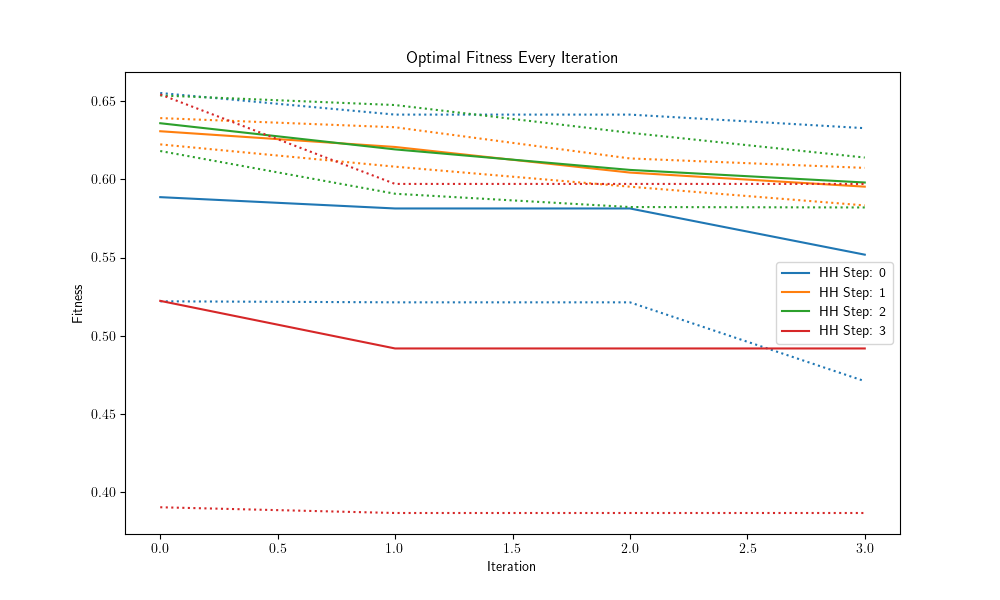
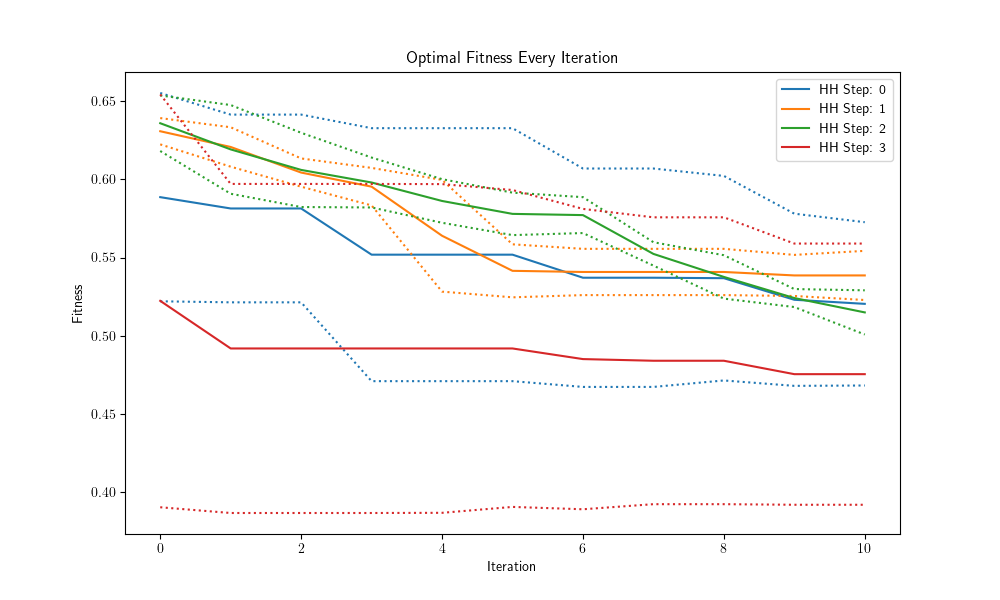
Boxplots

diff --git a/main_vis.py b/main_vis.py
@@ -75,7 +75,6 @@ def get_statistics(raw_data):
 
 def quick_and_dirty_hh_multiplot(directory_path):
     all_historical_fitness = []
-    print(directory_path)
 
     # List all files in the directory
     for filename in os.listdir(directory_path):
@@ -91,12 +90,11 @@ def quick_and_dirty_hh_multiplot(directory_path):
                     rep_values = {}
                     for replica in data['details']['historical']:
                         # print(replica['fitness'])
-                        for i in range(len(replica)):
+                        for i in range(len(replica['fitness'])):
                             if not i in rep_values:
                                 rep_values[i] = []
                             rep_values[i].append(replica['fitness'][i])
-                        i_rap = len(replica)
-                    print()
+                        i_rap = len(replica['fitness'])
                     historical_values_stats = {
                         "Med": [],
                         "Min": [],
@@ -107,7 +105,6 @@ def quick_and_dirty_hh_multiplot(directory_path):
                         historical_values_stats["Med"].append(stats["Med"])
                         historical_values_stats["Min"].append(stats["Med"]-(stats["IQR"]/2))
                         historical_values_stats["Max"].append(stats["Med"]+(stats["IQR"]/2))
-                        print(stats)
                     historical_fitness = historical_values_stats
                     all_historical_fitness.append(historical_fitness)
                 except json.JSONDecodeError as e:
@@ -139,6 +136,99 @@ def quick_and_dirty_hh_multiplot(directory_path):
 
     print(f"Plot saved as {plot_file_path}")
 
+def quick_and_dirty_hh_boxplot(directory_path):
+    all_historical_fitness = []
+
+    num_files = 0
+    for filename in os.listdir(directory_path):
+        file_path = os.path.join(directory_path, filename)
+        if filename.endswith('.json') and os.path.isfile(file_path):
+            num_files += 1
+
+    print(num_files)
+    fig, axs = plt.subplots(num_files, 1, figsize=(10, 6*num_files))
+    names = list(mcolors.TABLEAU_COLORS)
+    # List all files in the directory
+    i_step = 0
+    for filename in os.listdir(directory_path):
+        # Construct full file path
+        file_path = os.path.join(directory_path, filename)
+
+        # Check if the file is a JSON file
+        if filename.endswith('.json') and os.path.isfile(file_path):
+            with open(file_path, 'r', encoding='utf-8') as json_file:
+                try:
+                    # Load JSON content
+                    data = json.load(json_file)
+                    iteration_value_step = {}
+                    for replica in data['details']['historical']:
+                        for i in range(len(replica['fitness'])):
+                            if not i in iteration_value_step:
+                                iteration_value_step[i] = []
+                            iteration_value_step[i].append(replica['fitness'][i])
+                    iteration_value_step_list = list(iteration_value_step.values())
+                    axs[i_step].boxplot(iteration_value_step_list, showmeans=True)
+                    axs[i_step].set_title('HH Step: '+str(i_step))
+                    i_step +=1
+                except json.JSONDecodeError as e:
+                    print(f"Error reading {file_path}: {e}")
+
+# Sort colors by hue, saturation, value and name.
+
+
+    # Save the plot in the same directory
+    plot_file_path = os.path.join(directory_path, 'historical_fitness_boxplot.png')
+    fig.tight_layout()
+    fig.savefig(plot_file_path)
+
+    print(f"Plot saved as {plot_file_path}")
+
+def quick_and_dirty_hh_boxplot_all(directory_path):
+    all_historical_fitness = []
+    iteration_values = {}
+
+    # List all files in the directory
+    for filename in os.listdir(directory_path):
+        # Construct full file path
+        file_path = os.path.join(directory_path, filename)
+
+        # Check if the file is a JSON file
+        if filename.endswith('.json') and os.path.isfile(file_path):
+            with open(file_path, 'r', encoding='utf-8') as json_file:
+                try:
+                    # Load JSON content
+                    data = json.load(json_file)
+                    for replica in data['details']['historical']:
+                        for i in range(len(replica['fitness'])):
+                            if not i in iteration_values:
+                                iteration_values[i] = []
+                            iteration_values[i].append(replica['fitness'][i])
+                except json.JSONDecodeError as e:
+                    print(f"Error reading {file_path}: {e}")
+
+    iteration_values_list = list(iteration_values.values())
+
+    plt.figure(figsize=(10, 6))
+
+    i_col = 0
+    plt.boxplot(iteration_values_list, showmeans=True)
+# Sort colors by hue, saturation, value and name.
+
+    names = list(mcolors.TABLEAU_COLORS)
+
+
+    plt.xlabel('Iteration')
+    plt.ylabel('Fitness')
+    plt.title('Optimal Fitness Every Iteration')
+    plt.legend()
+
+    # Save the plot in the same directory
+    plot_file_path = os.path.join(directory_path, 'historical_fitness_boxplot_all.png')
+    plt.savefig(plot_file_path)
+    plt.close()
+
+    print(f"Plot saved as {plot_file_path}")
+
 
 def quick_and_dirty_save_hh_positions_to_xlsx(positions_data, rescale=False):
     centre_boundaries = [0.5] * 50
@@ -162,7 +252,7 @@ def quick_and_dirty_save_hh_positions_to_xlsx(positions_data, rescale=False):
 
     #     },
     #     "Crossover": {
-    #         "Worst": [0.5464518124009579, 0.27160005042194424, 0.8641534642254884, 0.28216867682564417, 0.902826755184196, 0.6886784823671213, 0.06644156851309413, 0.7410623578382756, 0.6537357725877133, -0.2981174367287347, -0.3226857195237185, -0.6493784950470745, -0.6302932963629073, -0.9775119797448784, -0.8434389694224462, 0.035166839476338474, 0.254175132268214, 0.779988582143023, 0.8983290288513619, 0.7674329282016832, -0.5982820586172723, -0.12829953433371943, 0.36312734477422826, 0.7152809638240423, 0.8775957684664346, 0.940055720980083, -0.5098715052873162, -0.7385657905624119, 0.8457861776205897, -0.21497535212715468, 0.10101825314369761, 0.7591443381551211, 0.448101056540698, 0.10242044228311253, 0.9301485960682858, 0.08114556495540604, 0.03925213967089136, -0.796680101314998, 0.24648240847341185, -0.37104721658513795, -0.43890072554851356, -0.7116411578259918, 0.5576837643274504, 0.8137345458384624, -0.7259510712506605, 0.9621821085045761, -0.13155868612824984, 0.7532267847673226, -0.20627317726817807],
+    #         "Worst": [0.5464518124009579, 0.27160005042194424, 0.8641534642254884, 0.28216867682564417, 0.902826755184196, 0.6886784823671213, 0.06644156851309413, 0.7410623578382756, 0.6537357725877133, -0.2981174367287347, -0.3226857195237185, -0.6493784950470745, -0.6302932963629073, -0.9775119797448784, -0.8434389694224462, 0.035166839476338474, 0.254175132268214, 0.779988582143023, 0.8983290288513619, 0.7674329282016832, -0.5982820586172723, -0.12829953433371943, 0.36312734477422826, 0.7152809638240423, 0.8775957684664346, 0.940055720980083, -0.5098715052873162, -0.7385657905624119, 0.8457861776205897, -0.21497535212715468, 0.10101825314369761, 0.7591443381551211, 0.4481quick_and_dirty_hh_multiplot01056540698, 0.10242044228311253, 0.9301485960682858, 0.08114556495540604, 0.03925213967089136, -0.796680101314998, 0.24648240847341185, -0.37104721658513795, -0.43890072554851356, -0.7116411578259918, 0.5576837643274504, 0.8137345458384624, -0.7259510712506605, 0.9621821085045761, -0.13155868612824984, 0.7532267847673226, -0.20627317726817807],
     #         "Best": [-0.32750114409697273, -0.3223890998684106, -0.19640077812240547, 0.15931259703667208, -0.022535543843164016, 0.36273467338637483, 0.4219244059618271, 0.10110439977688485, 0.40985971391840226, 0.22709716346565617, -0.33582035816159306, -0.11763707550342846, -0.10555539370921377, 0.1297886277447725, -0.027075210363023416, 0.27729679055635814, 0.32948624096514345, 0.31371507120817527, -0.023495877856167503, -0.09997028438244512, -0.17752780960156853, 0.27199025433152546, -0.32654182168571433, -0.15942003906054225, 0.09158193732898787, 0.46783418167554547, 0.20460336851696626, -0.19251610140007228, -0.037871583059580036, -0.10806083224748522, 0.1452908448290182, -0.44008949306069806, -0.1343006914041406, 0.26542603718305585, 0.1795273697212829, 0.37154769900557766, 0.06993686349867194, 0.3019741706525578, -0.24897077430616377, -0.1283352569911947, -0.27290601544709164, -0.4633330298314464, -0.4940546971108059, -0.3268633345116534, -0.391894877442753, 0.33799578282091497, -0.24545393438725238, -0.47280549248322357, 0.22819086630563726]
     #     }
     # }
@@ -195,6 +285,8 @@ def visualize_experiment_1(hh_run_dirs_exp_1):
 
         # Visualize the results of Experiment 1 to a multiline plot of the different HH steps progressions.
         quick_and_dirty_hh_multiplot(path_hh_run)
+        quick_and_dirty_hh_boxplot_all(path_hh_run)
+        quick_and_dirty_hh_boxplot(path_hh_run)
 
         # Visualize an abstraction of the most optimal network configuration determined with the hh run to an xlsx file.
         backbones_pattern = re.compile(r"(\d+)_switches")
